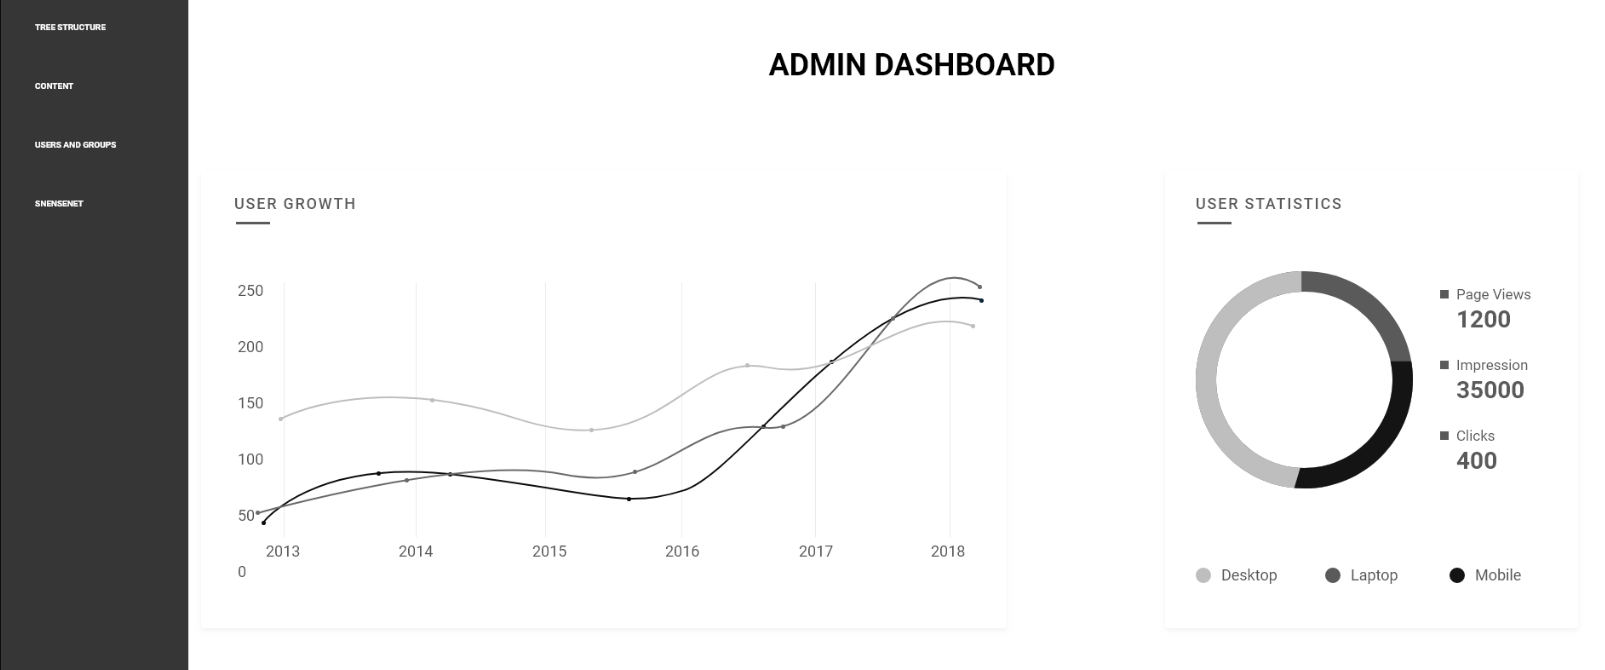
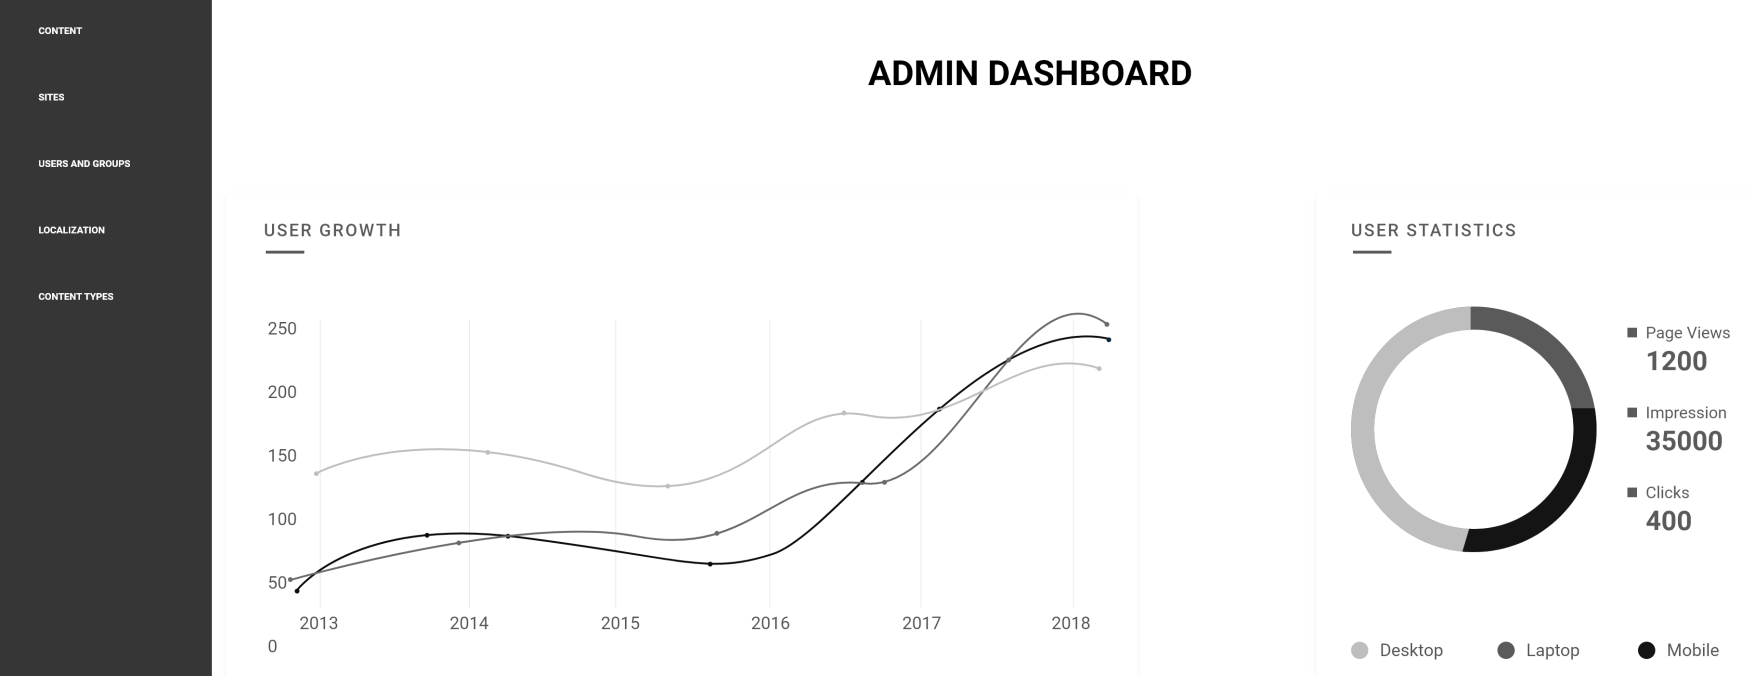
updated background

diff --git a/index.html b/index.html
@@ -36,7 +36,7 @@
   <body>
     <div
       id="example"
-      style="width: 100%; height: 100%; box-shadow: 188px 0 #363636 inset;"
+      style="width: 100%; height: 100%; box-shadow: 212px 0 #363636 inset;"
     ></div>
 
     <!-- Main -->
